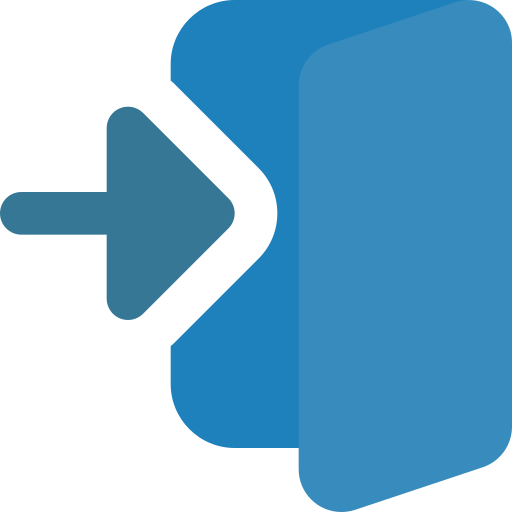
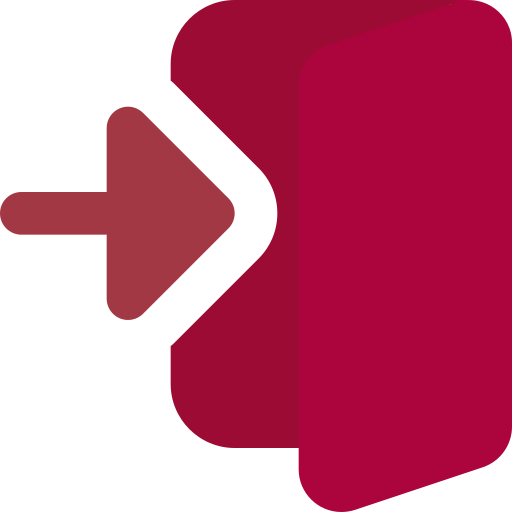
Updates in design

diff --git a/target/classes/com/example/swa7_app/AdminDesign.css b/target/classes/com/example/swa7_app/AdminDesign.css
@@ -9,23 +9,24 @@
     -fx-border-width: 0px 0px .4px 0px;
 }
 .nav-form{
-    -fx-background-color: linear-gradient(to bottom right,#2f3f89,#9231b5);
+    -fx-background-color: linear-gradient(to bottom right,#8f0030, #d5064b);
 }
 .nav-btn{
     -fx-background-color: transparent;
     -fx-cursor: hand;
     -fx-text-fill: #fff;
     -fx-font-size: 15px;
-    -fx-font-family: "Arial";
+    -fx-font-weight: bold;
+    -fx-font-family: "Consolas";
     -fx-alignment: CENTER_LEFT;
 }
 .logout-btn{
-    -fx-background-color: #6a5fff;
+    -fx-background-color: #ac9976;
     -fx-background-radius: 20px;
     -fx-cursor: hand;
 }
 .login-btn:hover{
-    -fx-background-color: #8c84ff;
+    -fx-background-color: #b7a88d;
 }
 .white-bg{
     -fx-background-color: #fff;
@@ -35,7 +36,7 @@
     -fx-effect: dropshadow(three-pass-box, rgba(0,0,0,0.4),4,0,0,0);
 }
 .card{
-    -fx-background-color: linear-gradient(to right, #444857 ,#537e90);
+    -fx-background-color: linear-gradient(to right, #a40860 ,#c1264e);
     -fx-background-radius: 5px;
 }
 .close{
@@ -61,7 +62,7 @@
     /*-fx-border-radius: 6px;*/
     -fx-border-width: 0px 0px .6px 0px;
     -fx-font-size: 13px;
-    -fx-font-family: "Tahoma";
+    -fx-font-family: "Inter";
 }
 .textfield:focused{
     /*-fx-background-color: linear-gradient(to bottom right,#2f3f89,#9231b5);*/
@@ -73,34 +74,34 @@
     -fx-border-color: linear-gradient(to right, #444857 ,#537e90);
     -fx-border-width: .8px;
     -fx-border-radius: .5px;
-    -fx-font-size: 13px;
-    -fx-font-family: "Tahoma";
+    -fx-font-size: 12px;
+    -fx-font-family: "Inter";
 }
 .combobox:focused{
-    -fx-background-color: linear-gradient(to bottom right,#2f3f89,#9231b5);
+    -fx-background-color: linear-gradient(to bottom right,#8f0030, #d5064b);
     -fx-border-width: 1.5px ;
 }
 .add-btn{
-    -fx-background-color: #3e608c;
-    -fx-background-radius: 5px;
+    -fx-background-color: rgb(172, 156, 116);
+    -fx-background-radius: 7px;
     -fx-cursor: hand;
     -fx-text-fill: #fff;
     -fx-font-size: 14px;
-    -fx-font-family: "Tahoma";
+    -fx-font-family: "Arial Rounded MT Bold";
 }
 .add-btn:hover {
-    -fx-background-color: #6597d3;
+    -fx-background-color: rgb(213, 193, 142);
 }
 .update-btn {
-    -fx-background-color: #754186;
-    -fx-background-radius: 8px;
+    -fx-background-color: rgb(154, 138, 100);
+    -fx-background-radius: 7px;
     -fx-cursor: hand;
     -fx-text-fill: #fff;
     -fx-font-size: 14px;
-    -fx-font-family: "Tahoma";
+    -fx-font-family: "Arial Rounded MT Bold";
 }
 .update-btn:hover{
-    -fx-background-color:#c375dd;
+    -fx-background-color: rgb(211, 186, 123);
 }
 .delete-btn {
     -fx-background-color: #9d374a;
@@ -108,35 +109,36 @@
     -fx-cursor: hand;
     -fx-text-fill: #fff;
     -fx-font-size: 14px;
-    -fx-font-family: "Tahoma";
+    -fx-font-family: "Arial Rounded MT Bold";
 }
 .delete-btn:hover {
     -fx-background-color: #e4657e;
 }
 .clear-btn {
-    -fx-background-color: #9d6245;
-    -fx-background-radius: 8px;
+    -fx-background-color: rgb(164, 152, 123);
+    -fx-background-radius: 7px;
     -fx-cursor: hand;
     -fx-text-fill: #fff;
     -fx-font-size: 14px;
-    -fx-font-family: "Tahoma";
+    -fx-font-family: "Arial Rounded MT Bold";
 }
 .clear-btn:hover {
-    -fx-background-color: #e49c7b;
+    -fx-background-color: rgb(218, 203, 164);
 }
 .table-view {
     -fx-background-color: transparent;
     -fx-padding: 0px;
-    -fx-border-color: linear-gradient(to bottom right, #2f3f89, #9231b5);
+    -fx-border-color: linear-gradient(to bottom right,#8f0030, #d5064b);
     -fx-border-radius: 0px 0px 9px 9px;
 }
 .table-view .column-header-background {
-    -fx-background-color: linear-gradient(to bottom right, #2f3f89, #9231b5);
+    -fx-background-color: linear-gradient(to bottom right, #8f0030, #d5064b);
     -fx-background-insets: 0 0 0 0;
 
 }
 .table-view .column-header, .filter {
     -fx-background-color: transparent;
+    -fx-font-family: Inter;
     -fx-size: 50px;
 }
 .table-view .column-header .label{

diff --git a/src/main/java/com/example/swa7_app/AdminController.java b/src/main/java/com/example/swa7_app/AdminController.java
@@ -27,6 +27,7 @@ import javafx.scene.Scene;
 import javafx.scene.chart.AreaChart;
 import javafx.scene.control.*;
 import javafx.scene.control.cell.PropertyValueFactory;
+import javafx.scene.image.Image;
 import javafx.scene.input.MouseEvent;
 import javafx.scene.layout.AnchorPane;
 import javafx.stage.Stage;
@@ -467,6 +468,8 @@ availableRooms_roomType.setItems(list);
                 Parent root = FXMLLoader.load(this.getClass().getResource("Login.fxml"));
                 Stage stage=new Stage();
                 Scene scene = new Scene(root);
+                Image image = new Image("file:icon.png");
+                stage.getIcons().add(image);
 
                 root.setOnMousePressed(new EventHandler<MouseEvent>() {
                     @Override

diff --git a/src/main/java/com/example/swa7_app/RegisterController.java b/src/main/java/com/example/swa7_app/RegisterController.java
@@ -43,7 +43,7 @@ public class RegisterController {
     @FXML
     private Label comfirmPasswordLabel,PasswordNullLabel;
     @FXML
-    private Button SignUnButton;
+    private Button SignUnButton,CancelButton;
 
 
 
@@ -53,7 +53,11 @@ public class RegisterController {
         if (checkPassword == 3 && checkAll == 8 && validate() == 2){
             registerUser();
         }
-
+    }
+    public void cancelButtonOnAction(ActionEvent event){
+        Stage stage = (Stage) CancelButton.getScene().getWindow();
+        stage.close();
+        Platform.exit();
     }
     int checkAll = 8;
     public int validate(){

diff --git a/src/main/java/com/example/swa7_app/Main.java b/src/main/java/com/example/swa7_app/Main.java
@@ -18,7 +18,7 @@ public class Main extends Application {
 
         //Al
 
-        Parent root = FXMLLoader.load(getClass().getResource("Admin.fxml"));
+        Parent root = FXMLLoader.load(getClass().getResource("Login.fxml"));
 
         Scene scene = new Scene(root);
 
